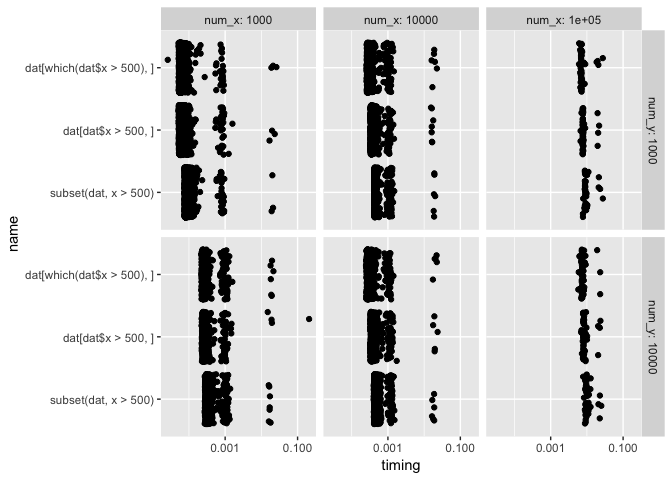
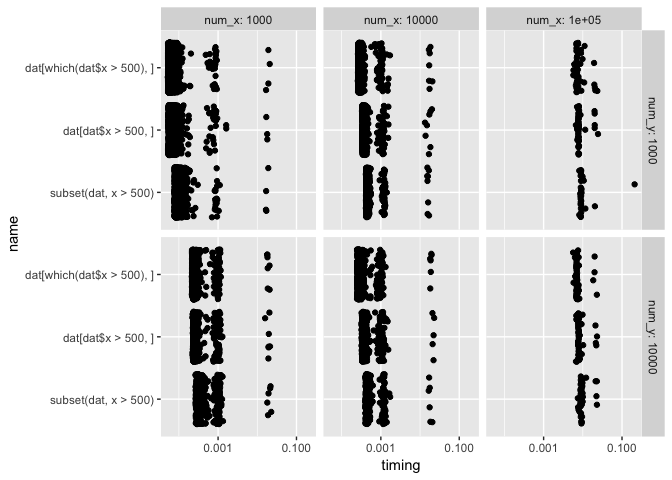
Update plot

diff --git a/README.md b/README.md
@@ -46,9 +46,9 @@ results
 #> # A tibble: 3 x 12
 #>   name                      relative     n    mean     min  median    max `n/sec` allocated_memory memory result timing
 #>   <chr>                        <dbl> <int>   <dbl>   <dbl>   <dbl>  <dbl>   <dbl> <chr>            <list> <list> <list>
-#> 1 dat[which(dat$x > 500), ]     2.00  1222 4.06e-4 2.52e-4 2.77e-4 0.0193   2461. 366.06 kB        <Rpro… <data… <dbl …
-#> 2 subset(dat, x > 500)          1.31   802 6.21e-4 4.00e-4 4.31e-4 0.0195   1611. 546.22 kB        <Rpro… <data… <dbl …
-#> 3 dat[dat$x > 500, ]            1.00   611 7.86e-4 3.22e-4 3.56e-4 0.194    1272. 426.10 kB        <Rpro… <data… <dbl …
+#> 1 dat[which(dat$x > 500), ]     1.54  1191 4.17e-4 2.52e-4 2.80e-4 0.0181   2397. 366.06 kB        <Rpro… <data… <dbl …
+#> 2 dat[dat$x > 500, ]            1.22   943 5.28e-4 3.20e-4 3.53e-4 0.0186   1896. 426.10 kB        <Rpro… <data… <dbl …
+#> 3 subset(dat, x > 500)          1.00   773 6.44e-4 4.11e-4 4.44e-4 0.0297   1553. 546.22 kB        <Rpro… <data… <dbl …
 ```
 
 ``` r
